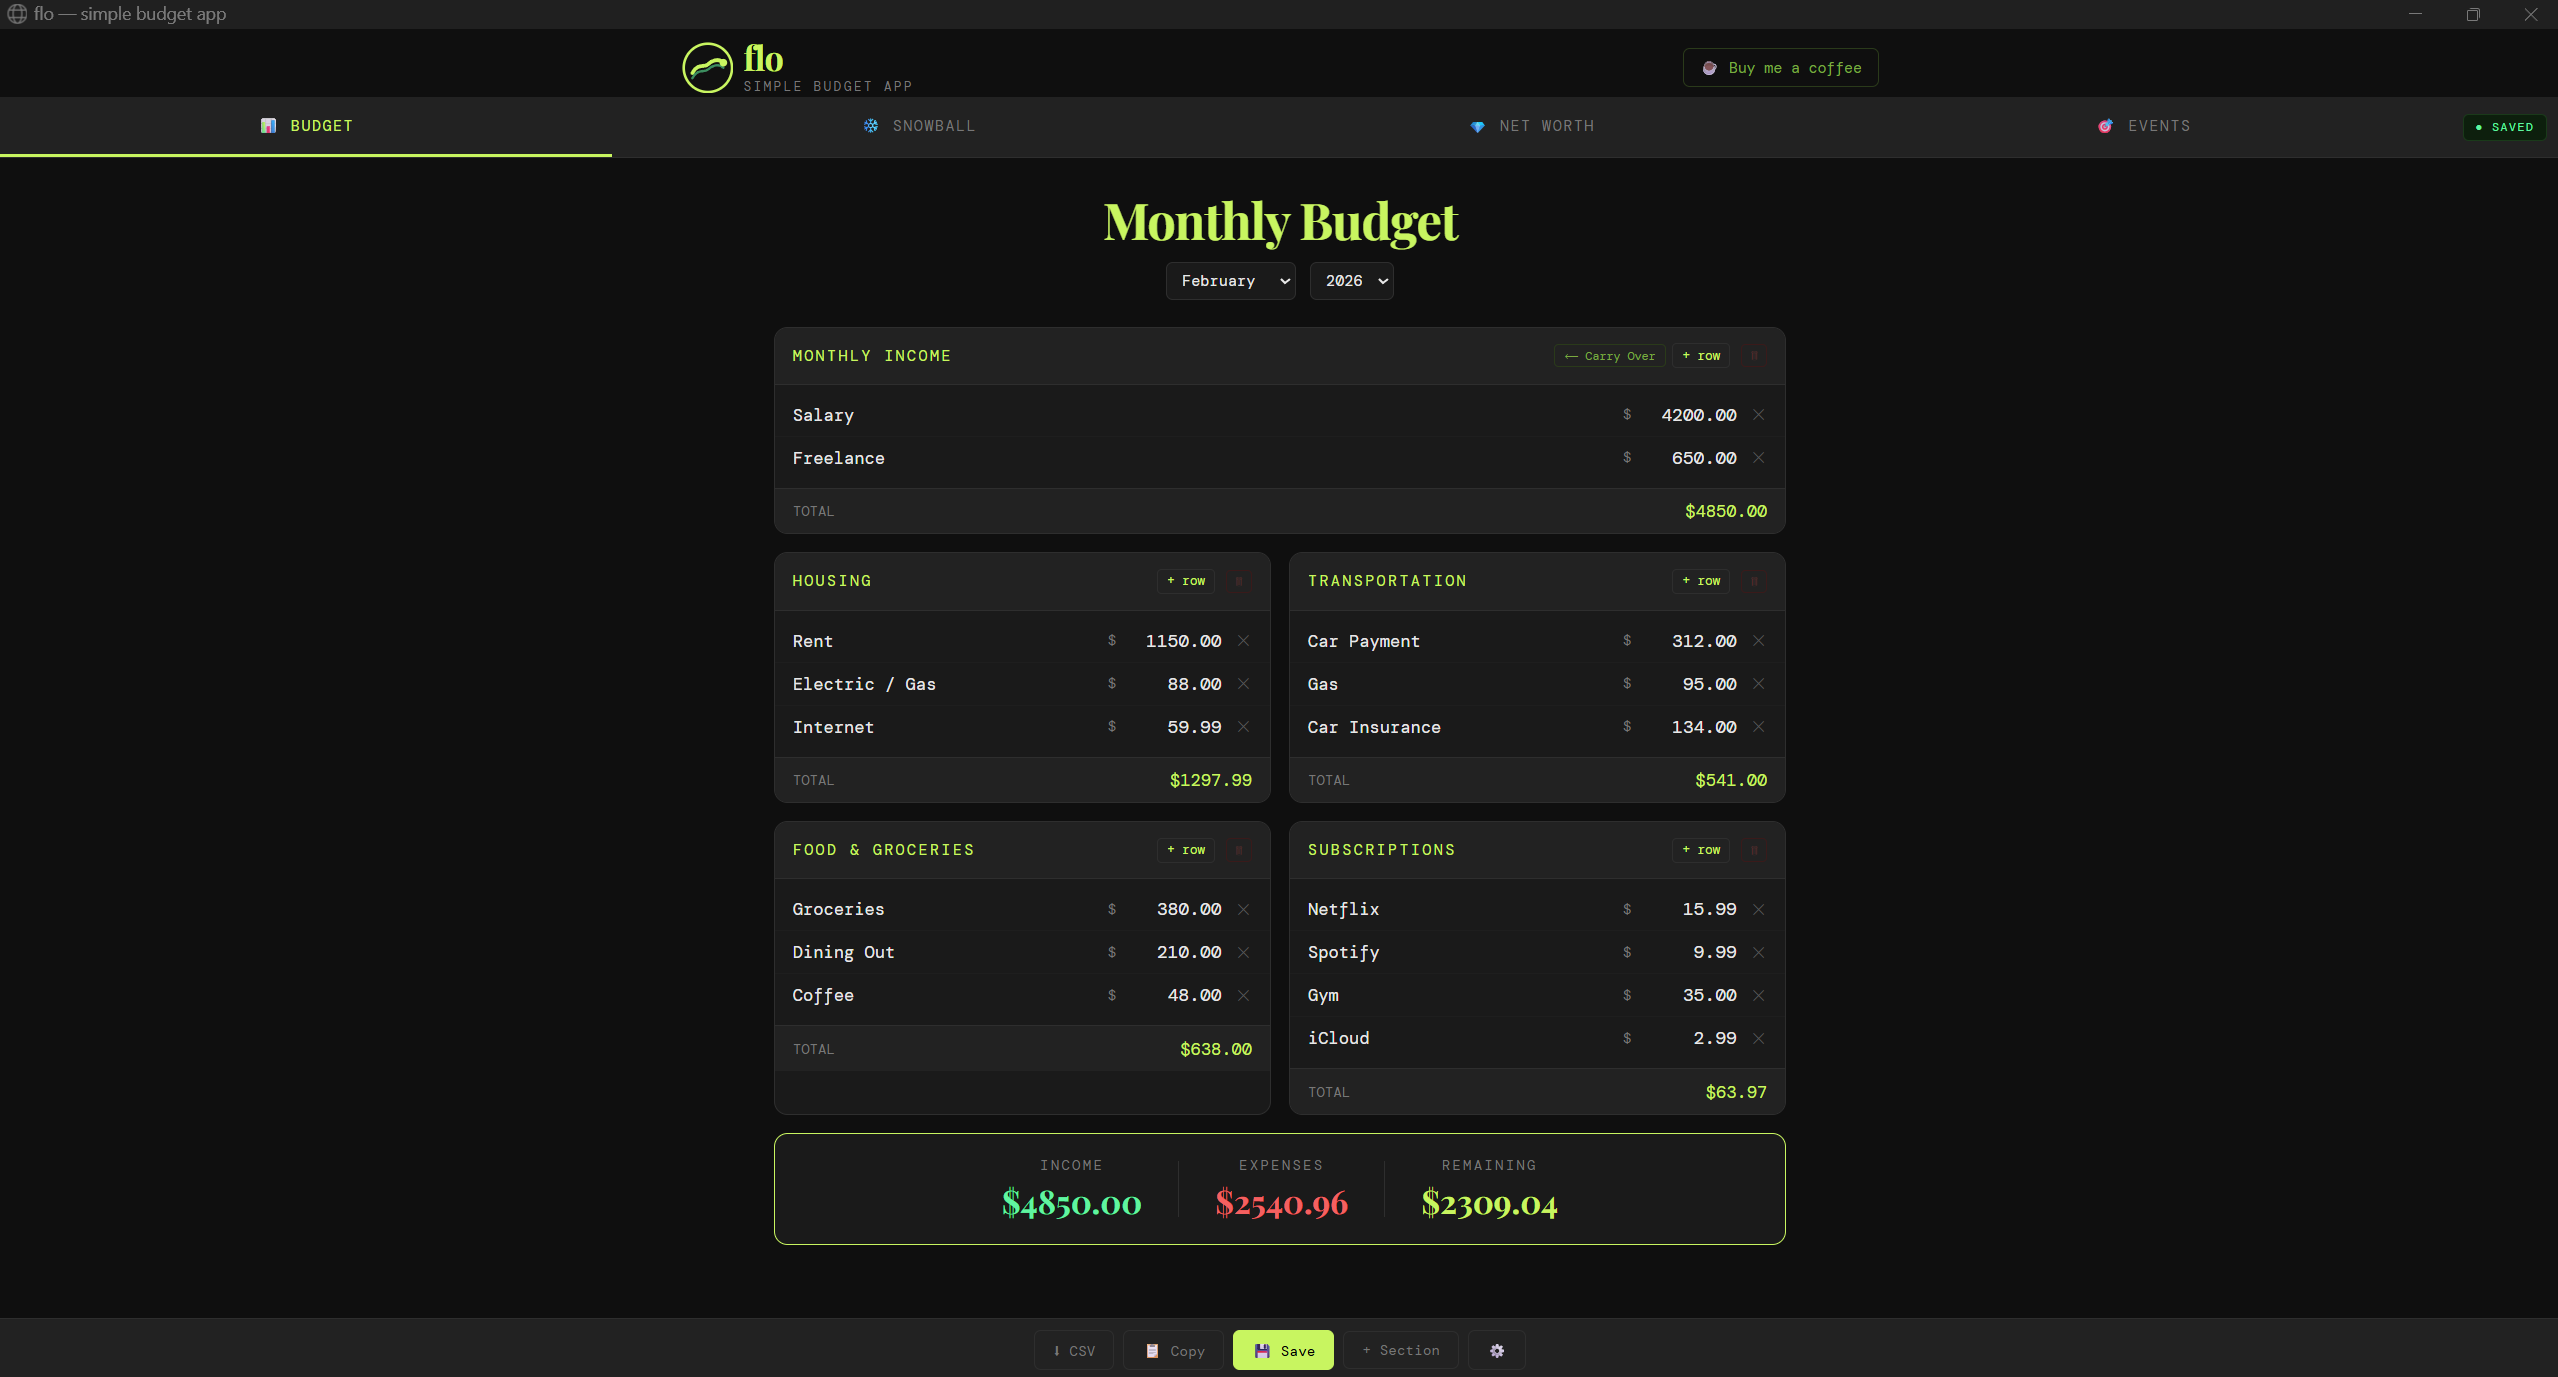
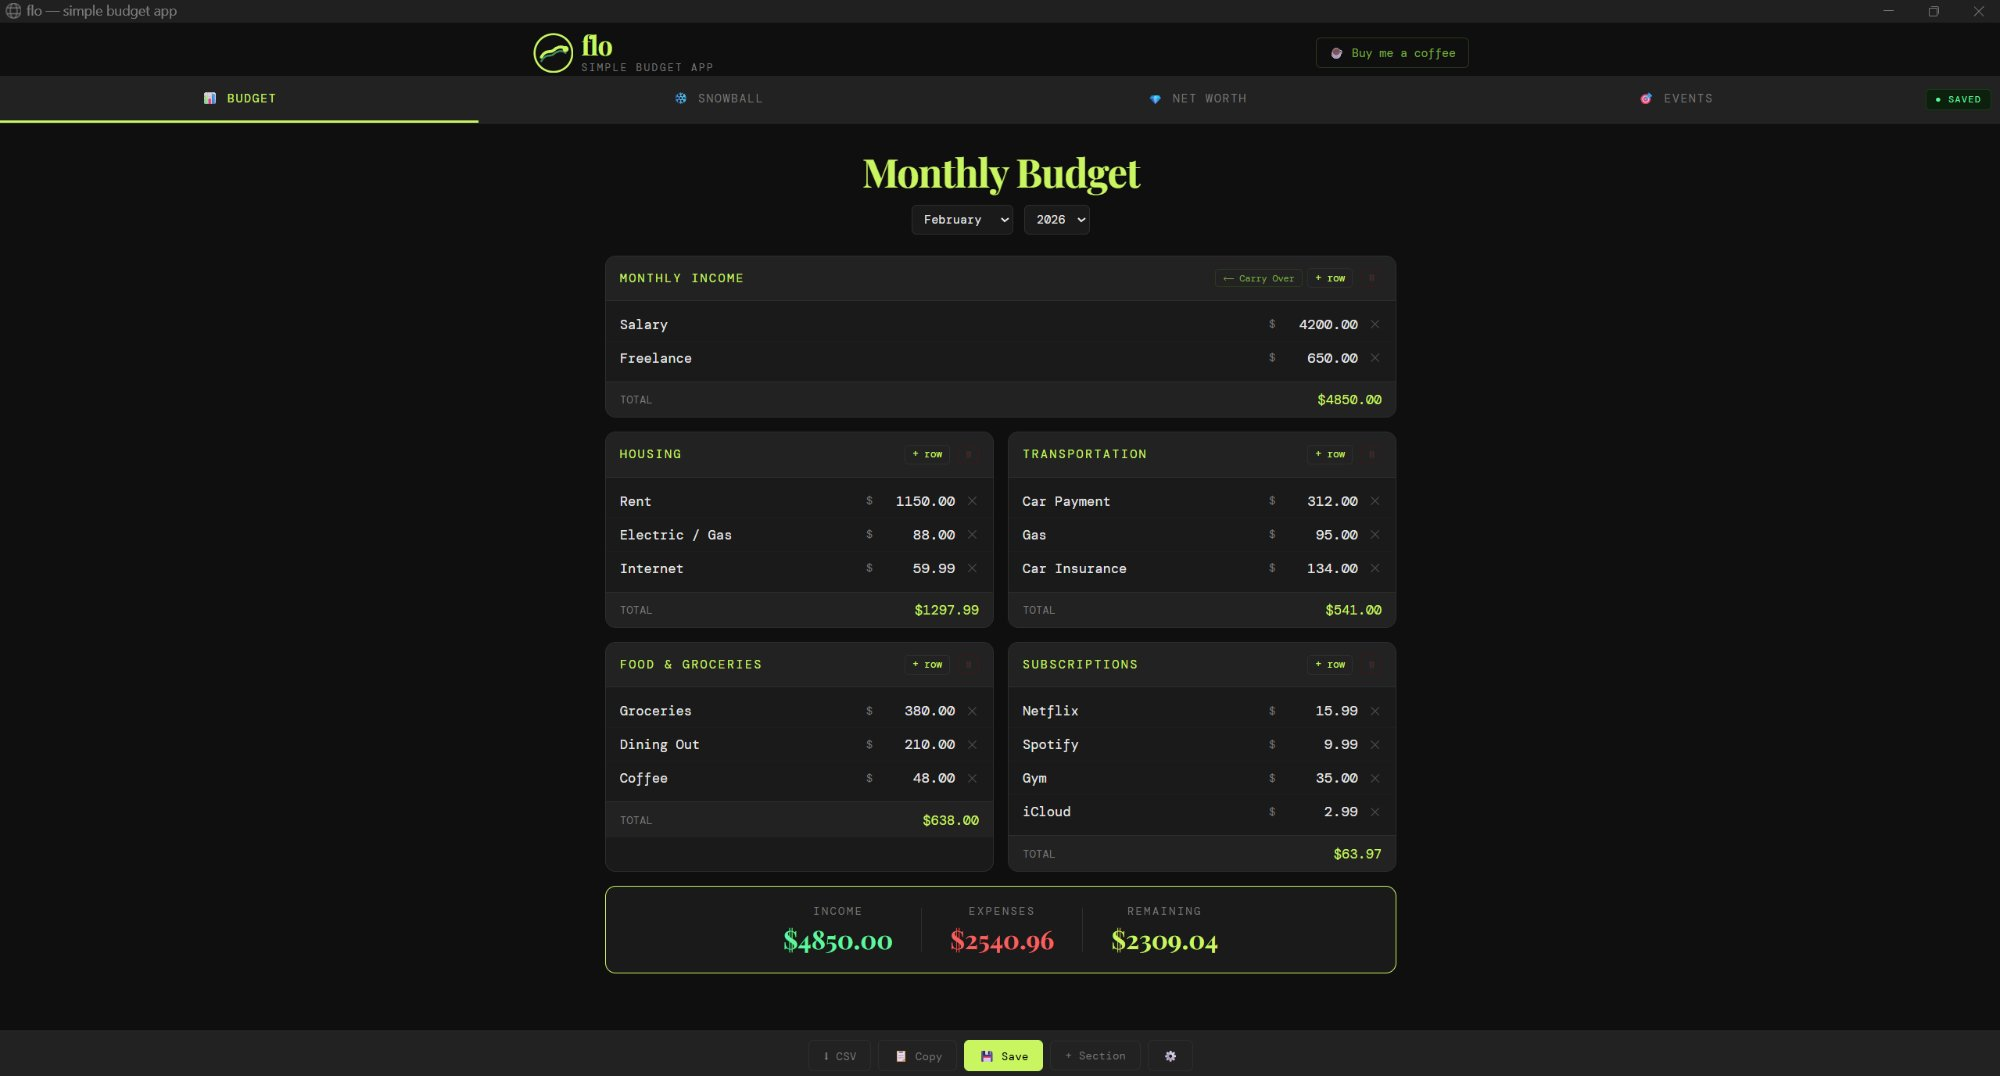
flo v1.3

diff --git a/src/app.html b/src/app.html
@@ -16,11 +16,11 @@ body.light{
   --accent:#5a8a00;--accent2:#c0392b;--text:#1c1a17;--muted:#7a7060;
   --green:#1a7a40;--blue:#1a6090;--orange:#b05000;--purple:#7030a0;
 }
-*{box-sizing:border-box;margin:0;padding:0;}
+*{box-sizing:border-box;margin:0;padding:0;}*:not(input):not(textarea):not(select){-webkit-user-select:none;user-select:none;}
 input[type=number]::-webkit-inner-spin-button,
 input[type=number]::-webkit-outer-spin-button{-webkit-appearance:none;margin:0;}
 input[type=number]{-moz-appearance:textfield;appearance:textfield;}
-body{background:var(--bg);color:var(--text);font-family:'DM Mono',monospace;min-height:100vh;padding:0 0 70px;transition:background 0.2s,color 0.2s;}
+body{background:var(--bg);color:var(--text);font-family:'DM Mono',monospace;min-height:100vh;padding:0 0 70px;transition:background 0.2s,color 0.2s;-webkit-overflow-scrolling:touch;overscroll-behavior:contain;}html{scroll-behavior:smooth;}
 .tab-bar{display:flex;background:var(--surface2);border-bottom:1px solid var(--border);position:sticky;top:0;z-index:10;}
 .tab-btn{flex:1;padding:16px 0;background:none;border:none;font-family:'DM Mono',monospace;font-size:0.82rem;text-transform:uppercase;letter-spacing:1.5px;color:var(--muted);cursor:pointer;border-bottom:3px solid transparent;transition:all 0.2s;}
 .tab-btn.active{color:var(--accent);border-bottom-color:var(--accent);}
@@ -30,7 +30,7 @@ h1{font-family:'Playfair Display',serif;font-size:2.8rem;color:var(--accent);tex
 .month-selector{display:flex;align-items:center;justify-content:center;gap:12px;margin-bottom:24px;}
 select{background:var(--surface);border:1px solid var(--border);color:var(--text);font-family:'DM Mono',monospace;font-size:0.85rem;padding:6px 10px;border-radius:6px;cursor:pointer;}
 /* ── BUDGET GRID ── */
-.grid{display:grid;grid-template-columns:1fr 1fr;gap:16px;max-width:900px;margin:0 auto;}
+.grid{display:grid;grid-template-columns:1fr 1fr;gap:16px;margin:0 auto;padding:0 20px;}
 .card.income-card{grid-column:1/-1;}
 @media(max-width:600px){.grid{grid-template-columns:1fr;}.card.income-card{grid-column:1;}}
 .card{background:var(--surface);border:1px solid var(--border);border-radius:12px;overflow:hidden;}
@@ -78,7 +78,7 @@ body.light .row{border-bottom-color:#eee;}
 .chart-legend span{display:flex;align-items:center;gap:4px;}
 .chart-legend span::before{content:'';display:block;width:10px;height:10px;border-radius:2px;}
 /* ── BARS ── */
-.save-bar{position:fixed;bottom:0;left:0;right:0;background:var(--surface2);border-top:1px solid var(--border);padding:10px 16px;display:flex;gap:8px;justify-content:center;flex-wrap:wrap;z-index:10;align-items:center;}
+.save-bar{position:fixed;bottom:0;left:0;right:0;background:var(--surface2);border-top:1px solid var(--border);padding:10px 16px;display:flex;gap:8px;justify-content:center;flex-wrap:wrap;z-index:10;align-items:center;padding-right:52px;}
 .btn{font-family:'DM Mono',monospace;font-size:0.8rem;padding:8px 16px;border-radius:6px;cursor:pointer;border:1px solid var(--border);transition:all 0.15s;color:var(--text);background:none;}
 .btn-primary{background:var(--accent);color:#000;border-color:var(--accent);}
 .btn-primary:hover{filter:brightness(1.1);}
@@ -102,7 +102,7 @@ body.light .row{border-bottom-color:#eee;}
 .settings-label{color:var(--muted);font-size:0.68rem;text-transform:uppercase;letter-spacing:1px;padding:6px 10px 2px;}
 
 /* ── SNOWBALL ── */
-.sb-wrap{max-width:900px;margin:0 auto;}
+.sb-wrap{margin:0 auto;padding:0 20px;}
 .sb-card{background:var(--surface);border:1px solid var(--border);border-radius:12px;overflow:hidden;margin-bottom:14px;}
 .sb-card-header{background:var(--surface2);padding:14px 16px;font-size:0.85rem;text-transform:uppercase;letter-spacing:2px;color:var(--blue);border-bottom:1px solid var(--border);display:flex;justify-content:space-between;align-items:center;gap:8px;flex-wrap:wrap;}
 .sb-col-headers{display:grid;gap:6px;padding:6px 12px;font-size:0.62rem;text-transform:uppercase;letter-spacing:1px;color:var(--muted);border-bottom:1px solid var(--border);background:var(--surface2);}
@@ -178,7 +178,7 @@ body.light .sync-notice{background:#edffd0;border-color:#aadd60;color:#4a7a10;}
 .tl-bar{height:8px;border-radius:4px;}
 .tl-event{font-size:0.72rem;color:var(--green);white-space:nowrap;}
 /* ── NET WORTH ── */
-.nw-wrap{max-width:900px;margin:0 auto;}
+.nw-wrap{margin:0 auto;padding:0 20px;}
 .nw-hero{text-align:center;padding:28px 20px 20px;background:var(--surface);border:1px solid var(--border);border-radius:16px;margin-bottom:20px;}
 .nw-hero-label{font-size:0.65rem;text-transform:uppercase;letter-spacing:2px;color:var(--muted);margin-bottom:8px;}
 .nw-hero-val{font-family:'Playfair Display',serif;font-size:3rem;margin-bottom:6px;}
@@ -209,7 +209,7 @@ body.light .sync-notice{background:#edffd0;border-color:#aadd60;color:#4a7a10;}
 .nw-snapshot-delta.up{background:#0d1f0d;color:var(--green);}
 .nw-snapshot-delta.down{background:#1f0d0d;color:var(--accent2);}
 /* ── EVENTS ── */
-.ev-wrap{max-width:900px;margin:0 auto;}
+.ev-wrap{margin:0 auto;padding:0 20px;}
 .ev-name-input{background:var(--surface);border:1px solid var(--border);color:var(--text);font-family:'DM Mono',monospace;font-size:0.9rem;padding:8px 12px;border-radius:6px;outline:none;width:100%;}
 .ev-name-input:focus{border-color:var(--accent);}
 .ev-cap-input{width:110px;background:var(--surface);border:1px solid var(--border);color:var(--accent);font-family:'DM Mono',monospace;font-size:0.9rem;padding:7px 10px;border-radius:6px;text-align:right;outline:none;}
@@ -256,7 +256,7 @@ body.light .sync-notice{background:#edffd0;border-color:#aadd60;color:#4a7a10;}
 .split-note{font-size:0.68rem;color:var(--muted);text-align:center;margin-top:8px;}
 
 /* ── FLO TITLEBAR ── */
-.flo-titlebar{display:flex;align-items:center;justify-content:space-between;padding:10px 18px 0;max-width:1100px;margin:0 auto 2px;}
+.flo-titlebar{display:flex;align-items:center;justify-content:space-between;padding:10px 18px 0;margin:0 auto 2px;}
 .flo-logo{display:flex;align-items:center;gap:9px;}
 .flo-wordmark{font-family:'Playfair Display',serif;font-size:1.9rem;color:var(--accent);letter-spacing:-0.5px;line-height:1;}
 .flo-tagline{font-size:0.72rem;text-transform:uppercase;letter-spacing:2px;color:var(--muted);margin-top:3px;}
@@ -449,14 +449,18 @@ body.light .sync-notice{background:#edffd0;border-color:#aadd60;color:#4a7a10;}
 
 
 <!-- Settings panel -->
-<div id="settingsPanel" style="display:none;position:fixed;bottom:64px;right:14px;background:var(--surface);border:1px solid var(--border);border-radius:10px;padding:10px 0;min-width:170px;z-index:50;box-shadow:0 4px 20px rgba(0,0,0,0.4);">
+<div id="settingsPanel" style="display:none;position:fixed;bottom:64px;right:14px;background:var(--surface);border:1px solid var(--border);border-radius:10px;padding:10px 0;min-width:200px;z-index:50;box-shadow:0 4px 20px rgba(0,0,0,0.4);">
   <div style="padding:4px 14px 8px;font-size:0.6rem;text-transform:uppercase;letter-spacing:2px;color:var(--muted);border-bottom:1px solid var(--border);margin-bottom:4px;">Display</div>
   <button onclick="toggleTheme();toggleSettings()" style="width:100%;background:none;border:none;text-align:left;padding:8px 16px;font-family:'DM Mono',monospace;font-size:0.82rem;color:var(--text);cursor:pointer;" id="themePanelBtn">☀ Light mode</button>
+  <div style="padding:4px 14px 8px;font-size:0.6rem;text-transform:uppercase;letter-spacing:2px;color:var(--muted);border-top:1px solid var(--border);border-bottom:1px solid var(--border);margin-top:4px;margin-bottom:4px;">About</div>
+  <button onclick="checkForUpdate()" style="width:100%;background:none;border:none;text-align:left;padding:8px 16px;font-family:'DM Mono',monospace;font-size:0.82rem;color:var(--text);cursor:pointer;" id="updateBtn">🔄 Check for update</button>
+  <div style="padding:6px 16px 4px;font-size:0.72rem;color:var(--muted);">flo v1.3 — <a href="https://github.com/thatspeedykid/flo" target="_blank" style="color:var(--accent);text-decoration:none;">github</a></div>
 </div>
 
 <div class="toast" id="toast"></div>
 
 <script>
+const APP_VERSION='1.3';
 const MONTHS=['January','February','March','April','May','June','July','August','September','October','November','December'];
 const PALETTE=['#c8f560','#60c8f5','#f5a060','#f56060','#a060f5','#60f5a0','#f560c8','#f5d060'];
 const API='http://127.0.0.1:5757';
@@ -1115,15 +1119,29 @@ function renderSplitRows(){
   if(splitPeople.length===0){wrap.innerHTML='';return;}
   const total=parseFloat(document.getElementById('splitTotal').value)||0;
   const even=splitPeople.length>0?total/splitPeople.length:0;
-  wrap.innerHTML=splitPeople.map((p,i)=>
-    '<div class="split-row">'+
-      '<span class="split-row-name">'+esc(p.name)+'</span>'+
-      '<input class="split-row-amt" type="number" step="0.01" min="0" value="'+
-        (p.amount!==''?p.amount:even.toFixed(2))+
-      '" oninput="updateSplitAmt('+i+',this.value)" placeholder="'+even.toFixed(2)+'">'+
-      '<button class="split-row-del" onclick="removeSplitPerson('+i+')">✕</button>'+
-    '</div>'
-  ).join('');
+  // Only rebuild DOM if count changed — preserves focus
+  const existing=wrap.querySelectorAll('.split-row');
+  if(existing.length!==splitPeople.length){
+    wrap.innerHTML=splitPeople.map((p,i)=>
+      '<div class="split-row">'+
+        '<span class="split-row-name">'+esc(p.name)+'</span>'+
+        '<input class="split-row-amt" type="number" step="0.01" min="0" value="'+
+          (p.amount!==''?p.amount:even.toFixed(2))+
+        '" oninput="updateSplitAmt('+i+',this.value)" placeholder="'+even.toFixed(2)+'">'+
+        '<button class="split-row-del" onclick="removeSplitPerson('+i+')">✕</button>'+
+      '</div>'
+    ).join('');
+  } else {
+    // Just update placeholders without touching focused input
+    const inputs=wrap.querySelectorAll('.split-row-amt');
+    inputs.forEach((inp,i)=>{
+      inp.placeholder=even.toFixed(2);
+      // Only update value if not currently focused
+      if(document.activeElement!==inp){
+        inp.value=splitPeople[i].amount!==''?splitPeople[i].amount:even.toFixed(2);
+      }
+    });
+  }
 }
 function calcSplit(){
   const total=parseFloat(document.getElementById('splitTotal').value)||0;
@@ -1153,6 +1171,26 @@ function calcSplit(){
 }
 
 
+function checkForUpdate(){
+  const btn=document.getElementById('updateBtn');
+  btn.textContent='🔄 Checking...';
+  fetch('https://api.github.com/repos/thatspeedykid/flo/releases/latest')
+    .then(r=>r.json())
+    .then(data=>{
+      const latest=(data.tag_name||'').replace(/^v/,'');
+      if(!latest){btn.textContent='⚠ Could not check';return;}
+      if(latest===APP_VERSION||latest<APP_VERSION){
+        btn.textContent='✓ Up to date';
+        setTimeout(()=>{btn.textContent='🔄 Check for update';},3000);
+      } else {
+        btn.textContent='⬆ v'+latest+' — download';
+        btn.style.color='var(--accent)';
+        btn.onclick=()=>{window.open('https://github.com/thatspeedykid/flo/releases/latest','_blank');};
+      }
+    })
+    .catch(()=>{btn.textContent='⚠ No connection';setTimeout(()=>{btn.textContent='🔄 Check for update';},3000);});
+  // Keep panel open — don't call toggleSettings
+}
 function toggleSettings(e){
   e.stopPropagation();
   const d=document.getElementById('settingsPanel');
@@ -1179,6 +1217,71 @@ async function startup(){
   loadEvents();
 }
 startup();
+
+
+// ── Right-click: block context menu except on inputs (for paste) ─────────────
+document.addEventListener('contextmenu',e=>{
+  const tag=e.target.tagName;
+  if(tag==='INPUT'||tag==='TEXTAREA')return; // allow paste on inputs
+  e.preventDefault();
+});
+
+// ── Click-and-drag scroll ─────────────────────────────────────────────────
+(function(){
+  let isDown=false, startY=0, scrollY=0, velY=0, lastY=0, lastT=0, rafId=null;
+  const FRICTION=0.92;
+
+  function cancelMomentum(){if(rafId){cancelAnimationFrame(rafId);rafId=null;}}
+
+  function momentum(){
+    velY*=FRICTION;
+    if(Math.abs(velY)<0.5){cancelMomentum();return;}
+    window.scrollBy(0,velY);
+    rafId=requestAnimationFrame(momentum);
+  }
+
+  // Only drag-scroll when clicking on non-interactive elements
+  function isScrollable(el){
+    const tags=['INPUT','TEXTAREA','SELECT','BUTTON','A','LABEL'];
+    while(el&&el!==document.body){
+      if(tags.includes(el.tagName))return false;
+      if(el.classList&&(el.classList.contains('tab-btn')||el.classList.contains('btn')))return false;
+      el=el.parentElement;
+    }
+    return true;
+  }
+
+  document.addEventListener('mousedown',e=>{
+    if(e.button!==0||!isScrollable(e.target))return;
+    cancelMomentum();
+    isDown=true;
+    startY=e.clientY;
+    scrollY=window.scrollY;
+    velY=0; lastY=e.clientY; lastT=Date.now();
+    document.body.style.userSelect='none';
+    document.body.style.cursor='grabbing';
+  });
+
+  document.addEventListener('mousemove',e=>{
+    if(!isDown)return;
+    const now=Date.now(), dt=now-lastT||1;
+    velY=(lastY-e.clientY)/dt*16; // pixels per frame
+    lastY=e.clientY; lastT=now;
+    window.scrollTo(0, scrollY+(startY-e.clientY));
+  });
+
+  function stopDrag(){
+    if(!isDown)return;
+    isDown=false;
+    document.body.style.userSelect='';
+    document.body.style.cursor='';
+    if(Math.abs(velY)>1)rafId=requestAnimationFrame(momentum);
+  }
+
+  document.addEventListener('mouseup',stopDrag);
+  document.addEventListener('mouseleave',stopDrag);
+})();
+
 </script>
 </body>
 </html>

diff --git a/src/flo_win.py b/src/flo_win.py
@@ -185,13 +185,18 @@ def main():
         wait_for_http(port)
         browser = find_browser()
         if browser:
-            launch_browser(url, browser)
+            proc = launch_browser(url, browser)
+            proc.wait()           # block until browser window closes
         else:
             webbrowser.open(url)
+            return
+        # Browser closed — shut down the server and exit cleanly
+        srv.shutdown()
+        os._exit(0)
 
     threading.Thread(target=open_browser, daemon=True).start()
 
-    # This blocks forever (until the process is killed when Edge closes)
+    # Serve until open_browser calls srv.shutdown()
     try:
         srv.serve_forever()
     except KeyboardInterrupt:

diff --git a/README.md b/README.md
@@ -1,4 +1,3 @@
-
 <div align="center">
 
 <img src="https://raw.githubusercontent.com/thatspeedykid/flo/main/github/flo_logo.svg" width="80" height="80" alt="flo logo">
@@ -14,6 +13,8 @@
 [![Buy me a coffee](https://img.shields.io/badge/PayPal-Buy%20me%20a%20coffee-7aaa40?style=flat-square&logo=paypal)](https://www.paypal.com/paypalme/speeddevilx)
 
 *Monthly budgets · Debt snowball · Net worth · Event planning · Split costs — 100% offline, 100% open source.*
+
+**Current version: v1.3**
 
 </div>
 
@@ -171,6 +172,17 @@ flo/
 ---
 
 ## Changelog
+
+### v1.3 — February 2026
+- **Click-and-drag scrolling** — click and drag anywhere to scroll, with momentum/inertia like a phone
+- **Touch-friendly** — native touch scrolling enabled throughout
+- **No text selection** — clicking and dragging no longer highlights text, feels like a native app
+- **Right-click to paste** — context menu disabled everywhere except input fields where paste still works
+- **Settings gear fixed** — always pinned to the far right of the save bar
+- **Check for update** — settings panel stays open while checking, shows download link if update available
+- **Server shuts down on close** — flo process now exits cleanly when the window closes (no more ghost processes in Task Manager)
+- **Proper installer** — `flo_setup.exe` via Inno Setup, user-scoped install with no UAC prompts, supports upgrades
+- **Responsive layout** — all sections now fill the full window width at any resolution
 
 ### v1.2 — February 2026
 - **Single-click launch fixed** — app now opens reliably on first click every time. Previously required double-clicking after a fresh install
